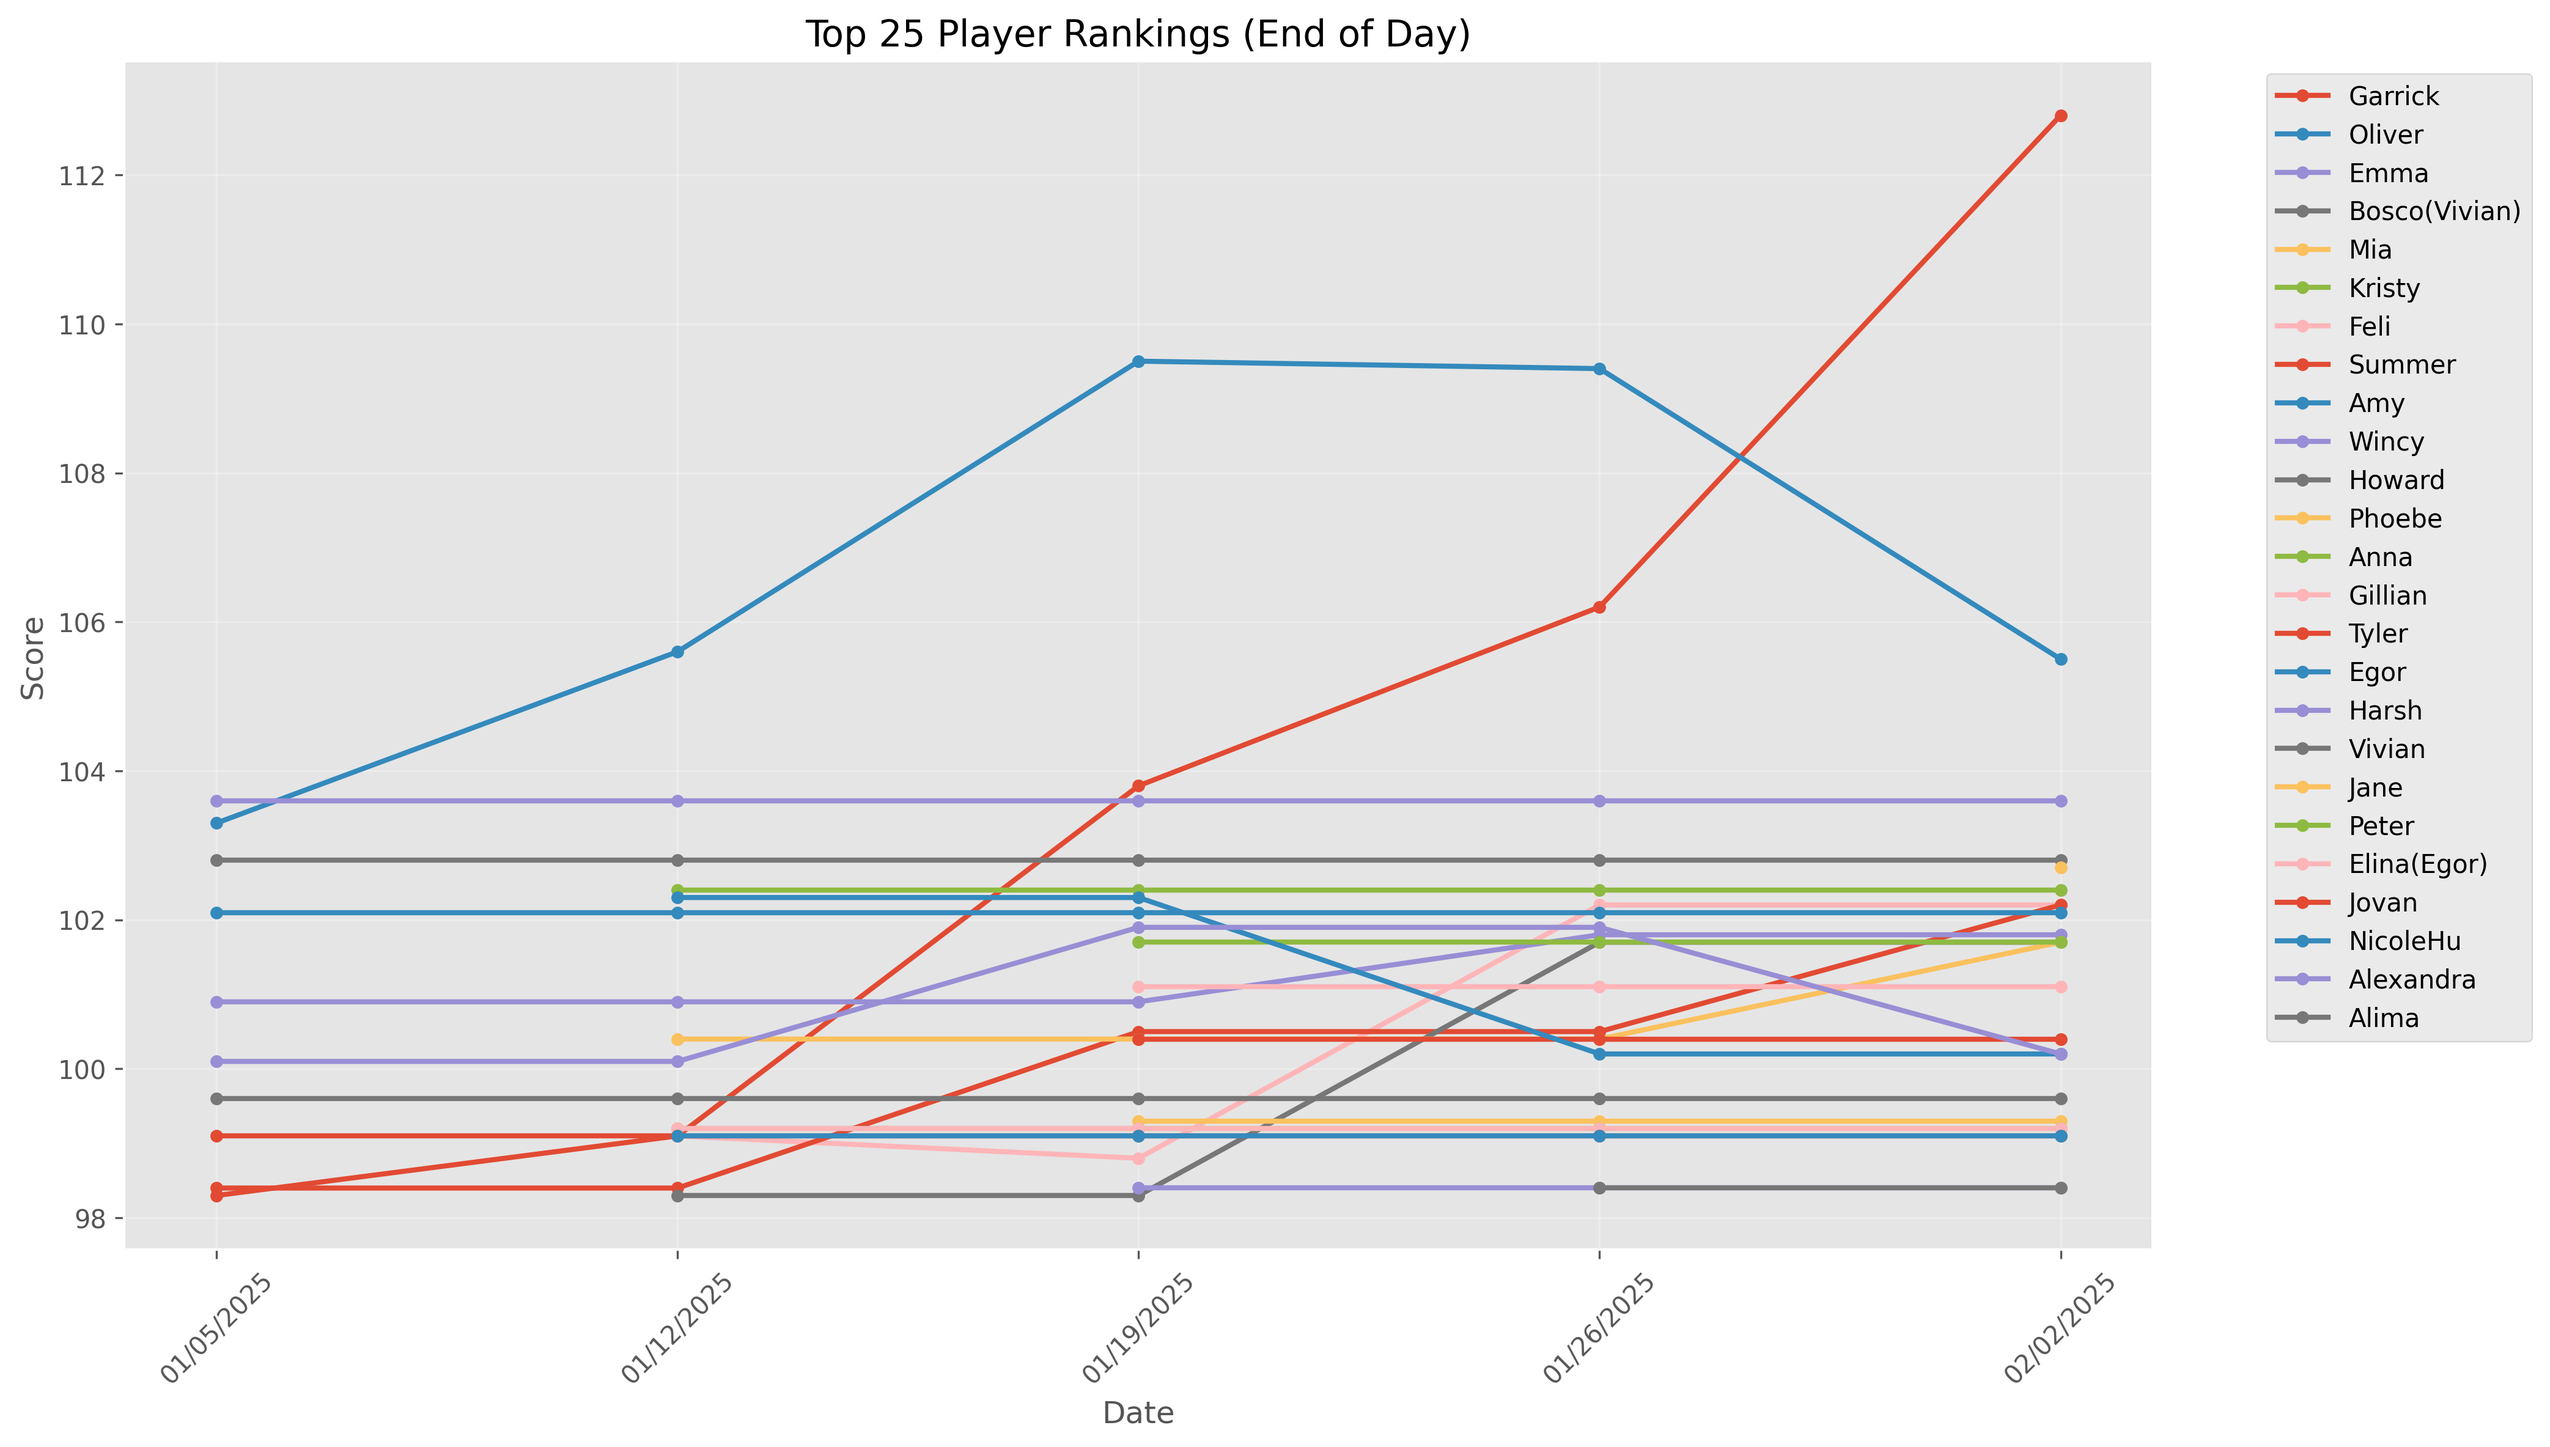
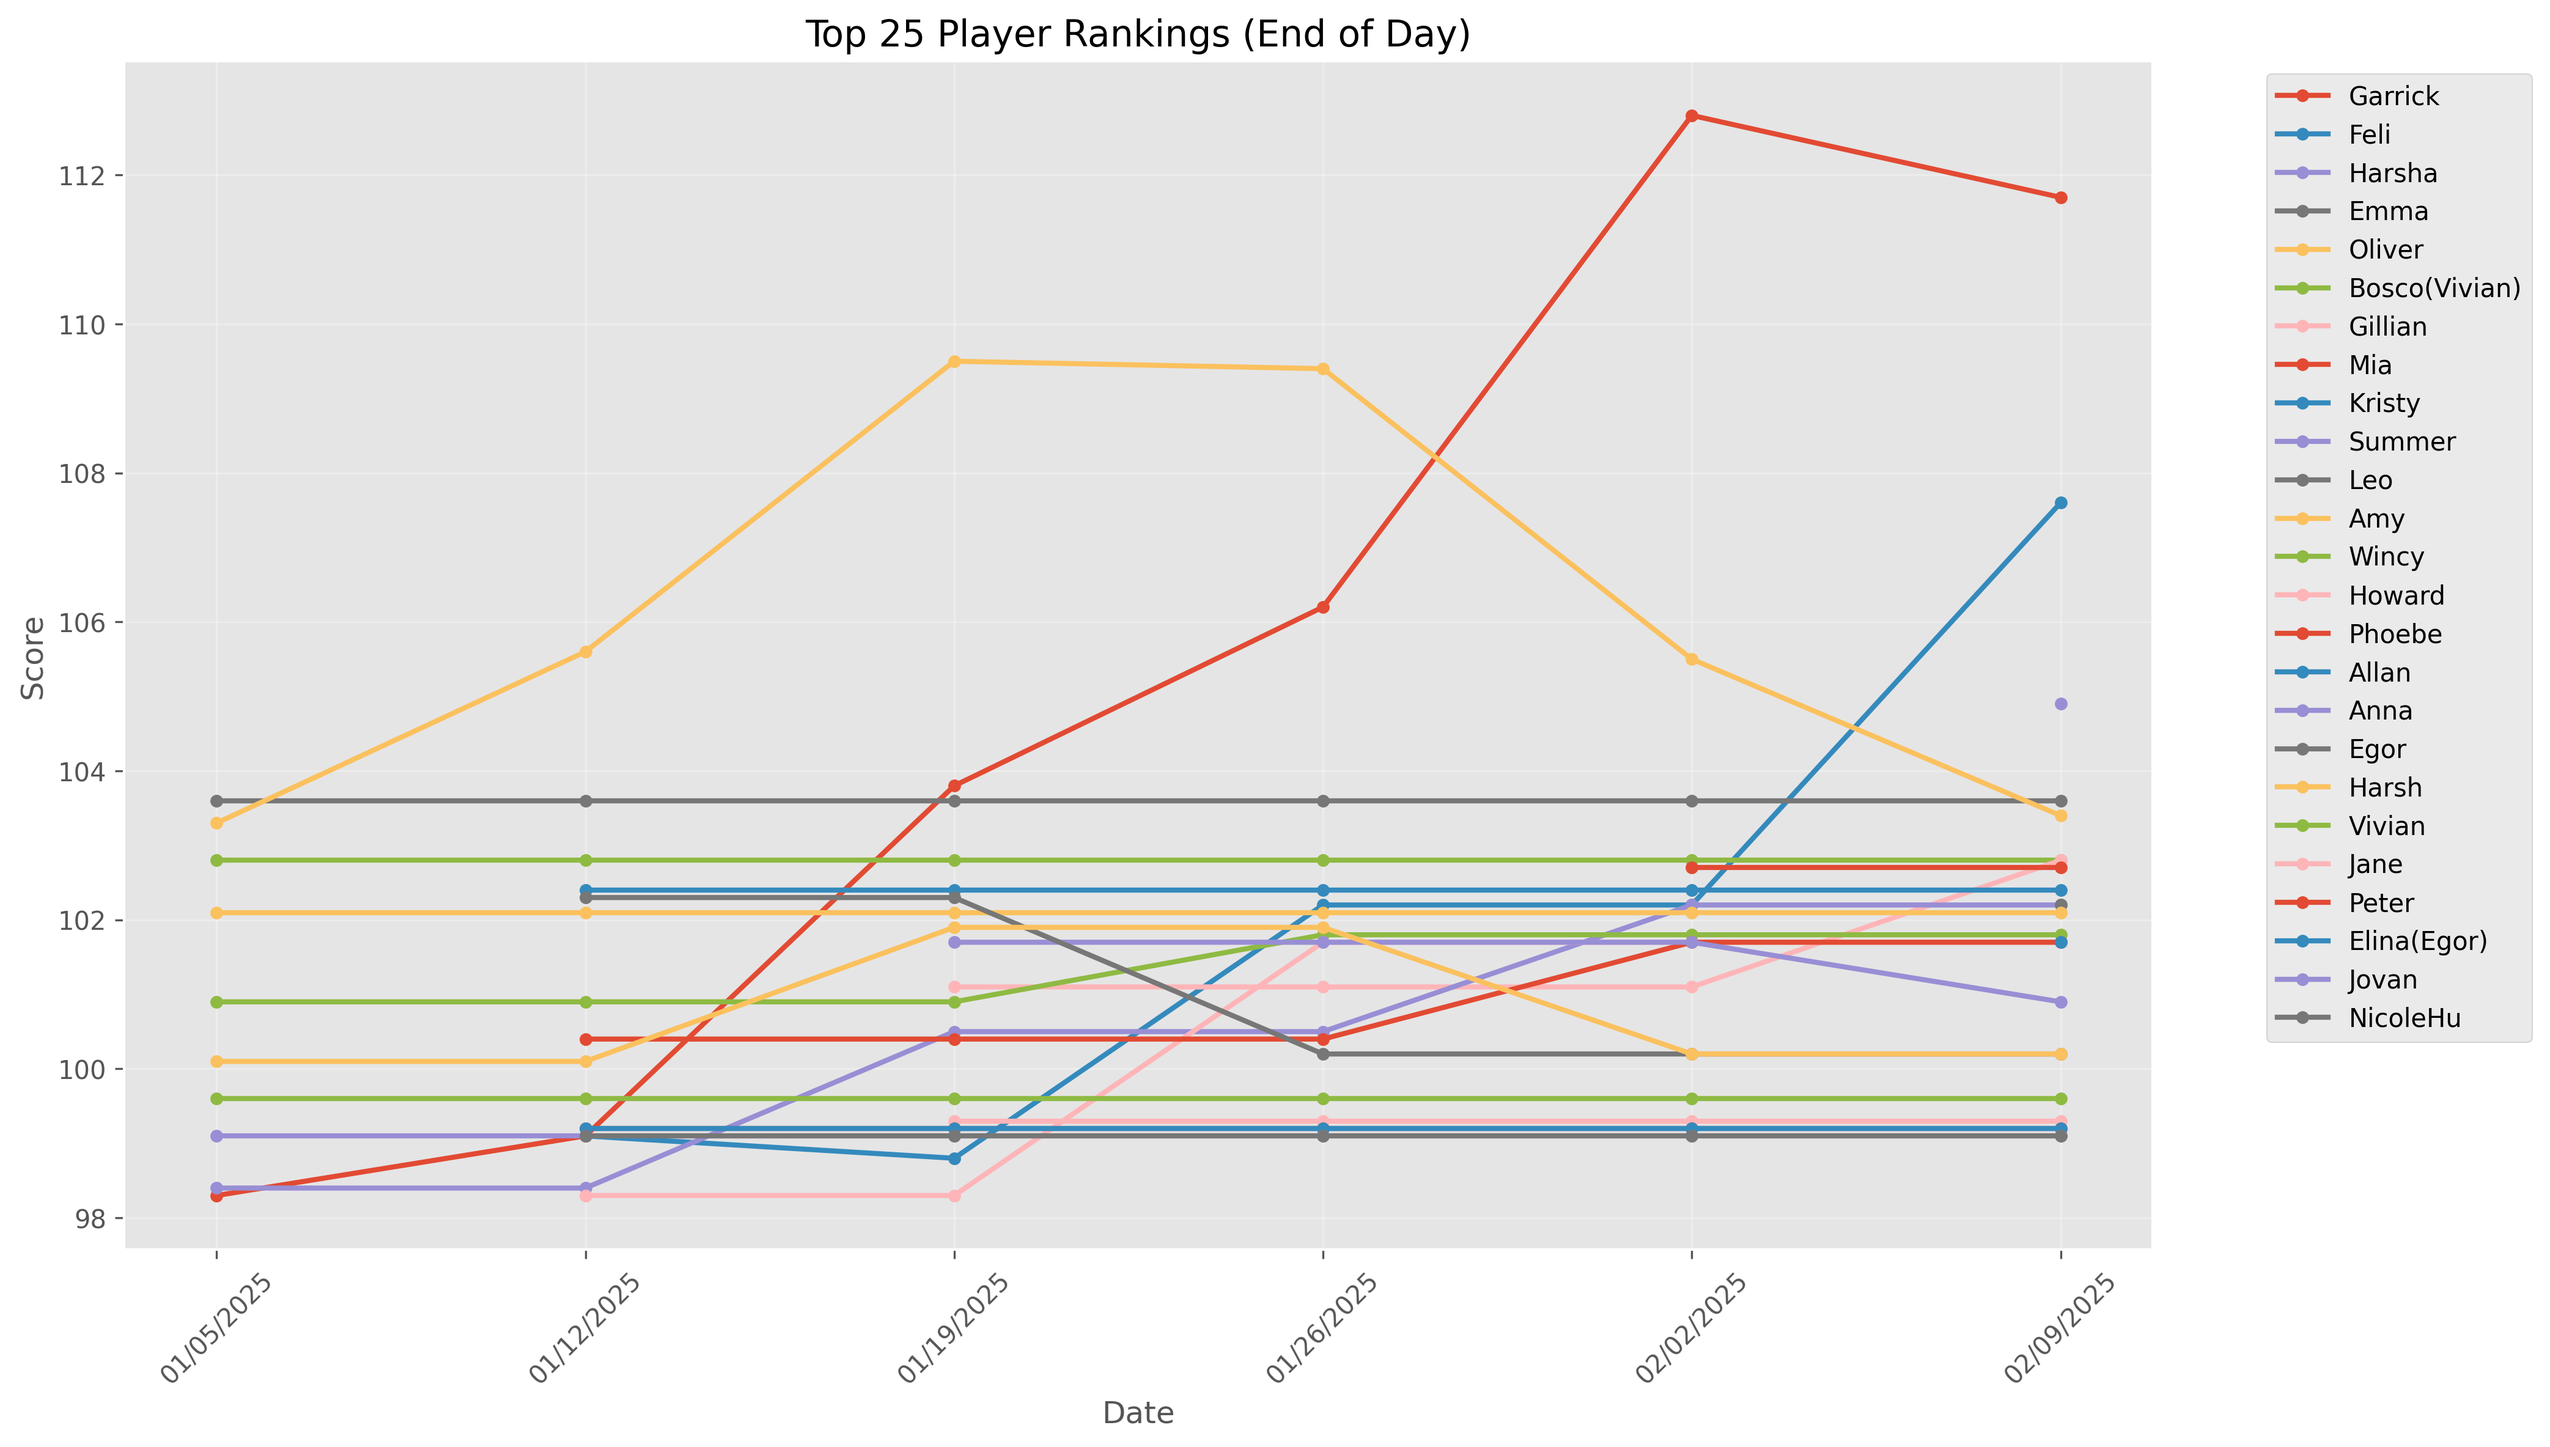
update rankings

diff --git a/parse_results.py b/parse_results.py
@@ -23,7 +23,6 @@ GAME_CONFIG = {
     "Carcassone": (GameType.INDIVIDUAL_RANKED, 1.0),
     "Coup": (GameType.INDIVIDUAL_WINNER, 1.0),
     "Masquerade": (GameType.INDIVIDUAL_WINNER, 1.0),
-    "Camel Up": (GameType.INDIVIDUAL_RANKED, 1.0),
     "Monopoly Deal": (GameType.INDIVIDUAL_WINNER, 1.0),
     "Night of the Ninja": (GameType.INDIVIDUAL_WINNER, 1.0),
     "Clank": (GameType.INDIVIDUAL_WINNER, 1.0),
@@ -38,6 +37,7 @@ GAME_CONFIG = {
     "Codenames": (GameType.TEAM_BALANCED, 1.0),
 
     "Incan Gold": (GameType.INDIVIDUAL_RANKED, 1.0),
+    "Camel Up": (GameType.INDIVIDUAL_RANKED, 1.0),
 }
 
 @dataclass

diff --git a/README.md b/README.md
@@ -4,21 +4,23 @@
 
 | Player | Score | Wins | Losses | Win % |
 | --- | --- | --- | --- | --- |
-| Garrick | 112.80 | 11 | 7 | 61% |
-| Oliver | 105.50 | 10 | 8 | 56% |
+| Garrick | 111.70 | 11 | 9 | 55% |
+| Feli | 107.60 | 4 | 4 | 50% |
+| Harsha | 104.90 | 1 | 1 | 50% |
 | Emma | 103.60 | 3 | 0 | 100% |
+| Oliver | 103.40 | 11 | 9 | 55% |
 | Bosco(Vivian) | 102.80 | 3 | 1 | 75% |
+| Gillian | 102.80 | 3 | 1 | 75% |
 | Mia | 102.70 | 2 | 0 | 100% |
 | Kristy | 102.40 | 2 | 0 | 100% |
-| Feli | 102.20 | 3 | 3 | 50% |
 | Summer | 102.20 | 4 | 6 | 40% |
+| Leo | 102.20 | 0 | 1 | 0% |
 | Amy | 102.10 | 2 | 1 | 67% |
 | Wincy | 101.80 | 2 | 2 | 50% |
 | Howard | 101.70 | 2 | 3 | 40% |
 | Phoebe | 101.70 | 2 | 3 | 40% |
-| Anna | 101.70 | 1 | 0 | 100% |
-| Gillian | 101.10 | 2 | 1 | 67% |
-| Tyler | 100.40 | 1 | 1 | 50% |
+| Allan | 101.70 | 1 | 0 | 100% |
+| Anna | 100.90 | 1 | 1 | 50% |
 | Egor | 100.20 | 2 | 3 | 40% |
 | Harsh | 100.20 | 3 | 5 | 38% |
 | Vivian | 99.60 | 1 | 2 | 33% |
@@ -27,9 +29,10 @@
 | Elina(Egor) | 99.20 | 0 | 1 | 0% |
 | Jovan | 99.10 | 1 | 2 | 33% |
 | NicoleHu | 99.10 | 0 | 2 | 0% |
-| Alexandra | 98.40 | 0 | 2 | 0% |
+| Tyler | 98.60 | 1 | 2 | 33% |
 | Alima | 98.40 | 0 | 2 | 0% |
 | Tara | 98.00 | 1 | 8 | 11% |
+| Alexandra | 92.60 | 0 | 3 | 0% |
 
 ### Rankings over Time
 
@@ -48,6 +51,18 @@
 | Jane | 0 | 2 | 0% |
 | Tara | 0 | 3 | 0% |
 | Summer | 0 | 3 | 0% |
+
+### Camel Up
+
+| Player | Wins | Losses | Win % |
+| --- | --- | --- | --- |
+| Harsha | 1 | 0 | 100% |
+| Feli | 0 | 1 | 0% |
+| Leo | 0 | 1 | 0% |
+| Garrick | 0 | 1 | 0% |
+| Tyler | 0 | 1 | 0% |
+| Oliver | 0 | 1 | 0% |
+| Alexandra | 0 | 1 | 0% |
 
 ### Codenames
 
@@ -107,13 +122,14 @@
 
 | Player | Wins | Losses | Win % |
 | --- | --- | --- | --- |
-| Oliver | 4 | 2 | 67% |
-| Garrick | 4 | 2 | 67% |
+| Oliver | 5 | 2 | 71% |
+| Gillian | 3 | 0 | 100% |
 | Summer | 3 | 2 | 60% |
 | Emma | 2 | 0 | 100% |
-| Gillian | 2 | 0 | 100% |
+| Garrick | 4 | 3 | 57% |
 | Vivian | 1 | 0 | 100% |
 | Mia | 1 | 0 | 100% |
+| Allan | 1 | 0 | 100% |
 | Kristy | 1 | 0 | 100% |
 | Egor | 1 | 0 | 100% |
 | Amy | 1 | 1 | 50% |
@@ -123,10 +139,12 @@
 | Tara | 1 | 2 | 33% |
 | Bosco(Vivian) | 1 | 1 | 50% |
 | Jovan | 1 | 1 | 50% |
+| Feli | 1 | 1 | 50% |
 | Peter | 0 | 1 | 0% |
 | Howard | 0 | 1 | 0% |
 | Elina(Egor) | 0 | 1 | 0% |
-| Feli | 0 | 1 | 0% |
+| Anna | 0 | 1 | 0% |
+| Harsha | 0 | 1 | 0% |
 | Alexandra | 0 | 2 | 0% |
 | Jane | 0 | 2 | 0% |
 
